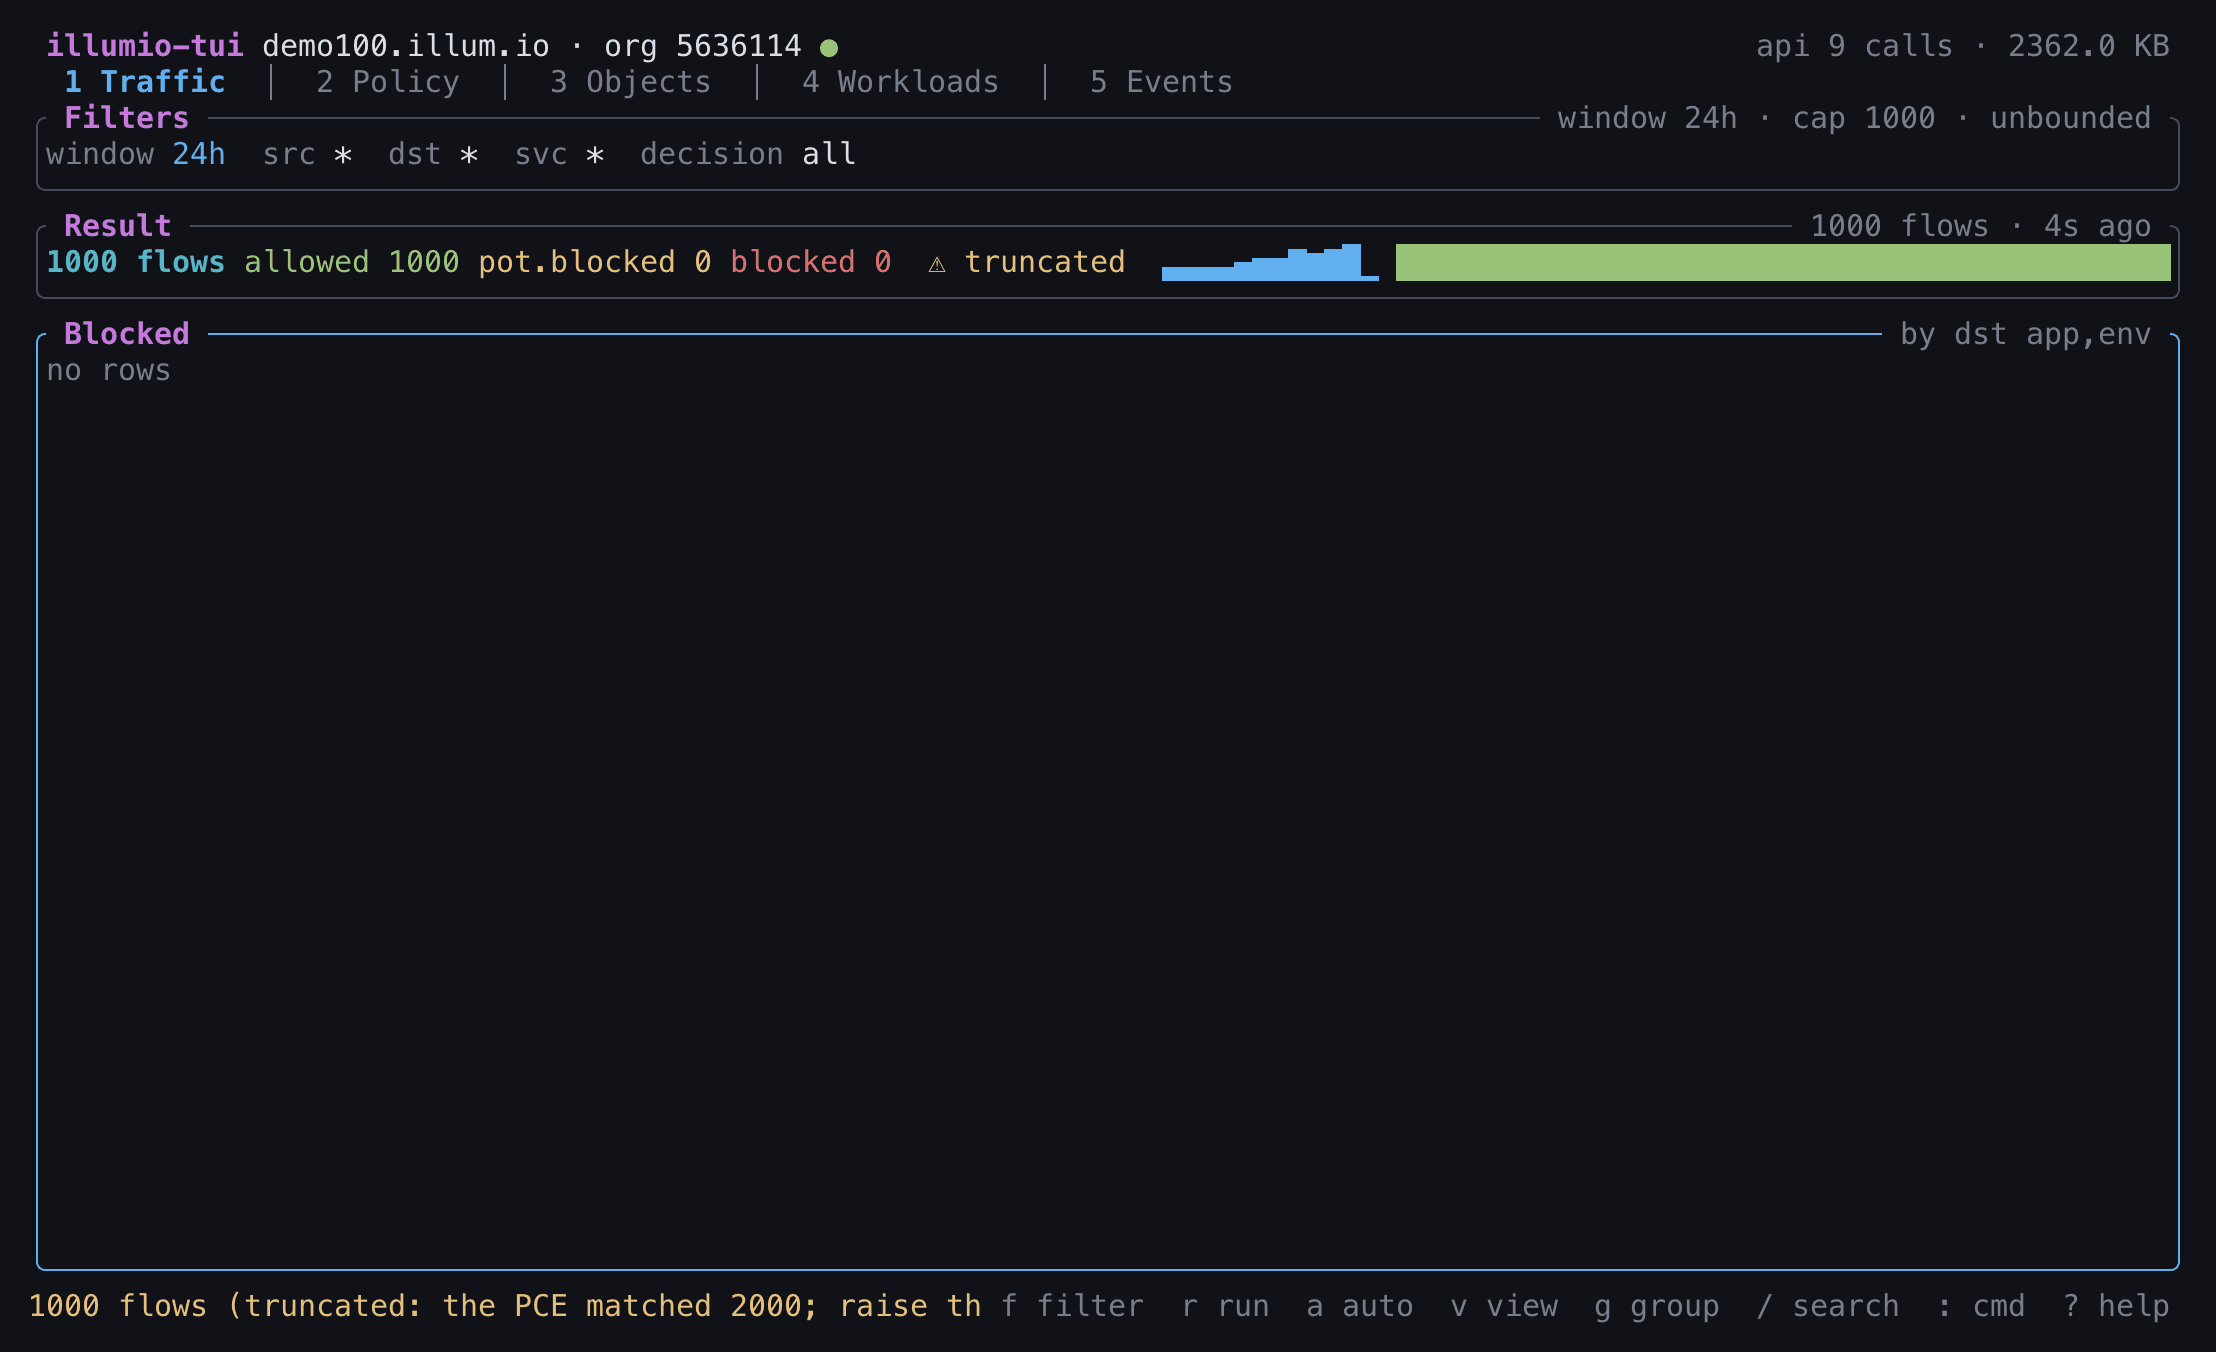
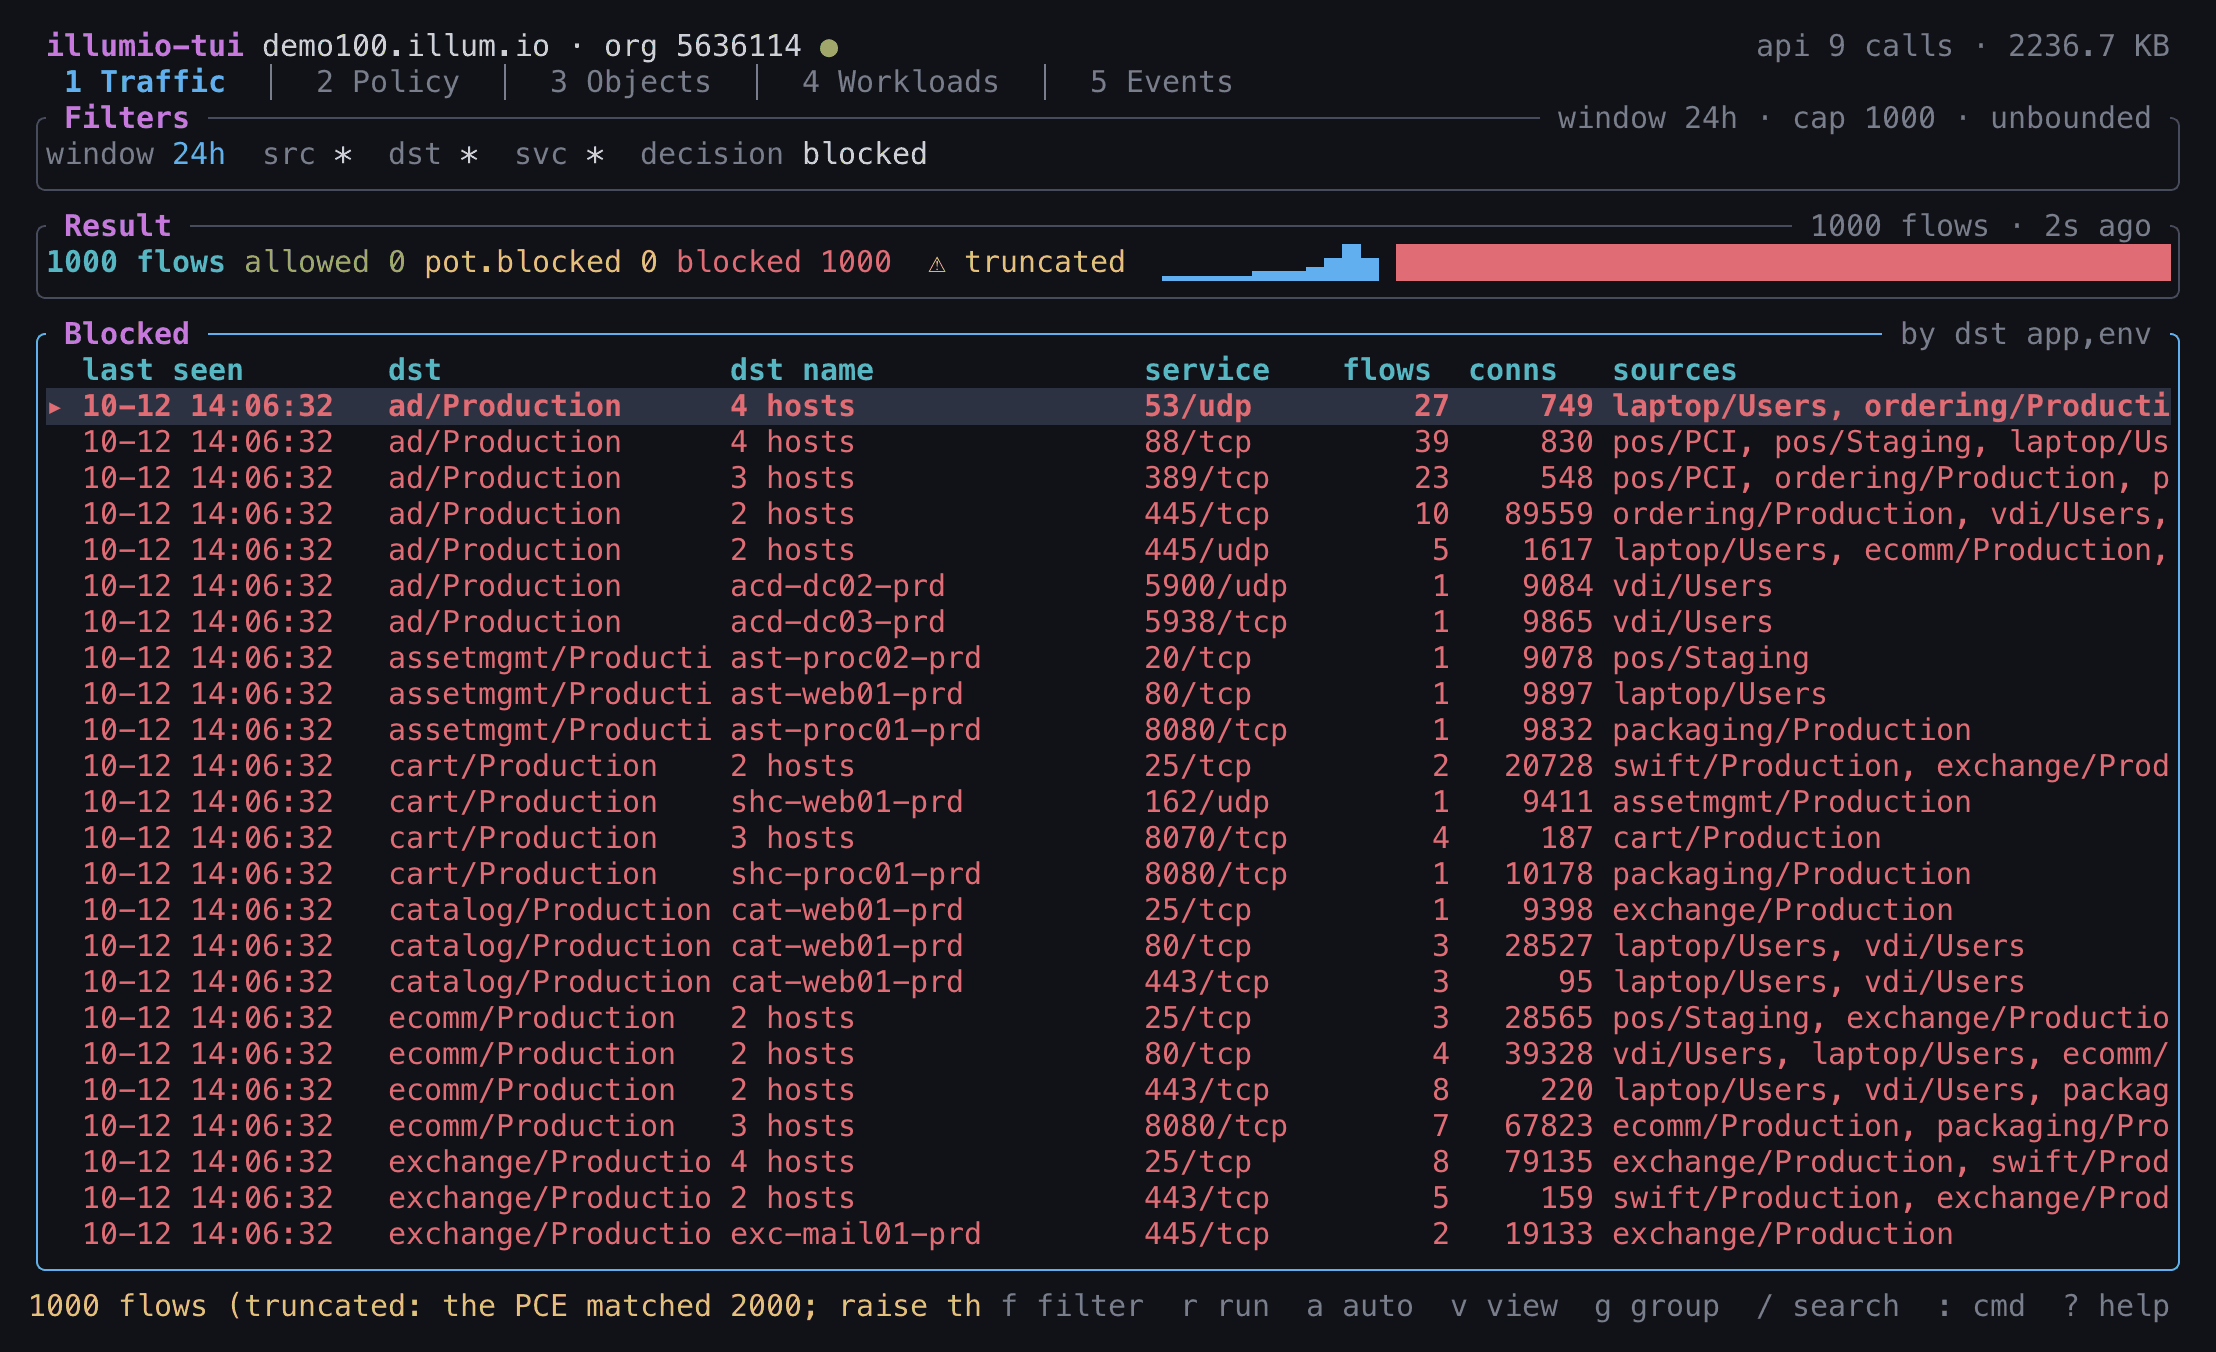
docs: populated Blocked screenshot from a blocked-only query

diff --git a/docs/index.html b/docs/index.html
@@ -126,8 +126,8 @@ illumio-tui 0.1.3</code></pre>
       <figcaption>Treemap: each source a box, destinations sized by connections.</figcaption>
     </figure>
     <figure class="shot">
-      <img src="assets/traffic-blocked.png" alt="The Traffic screen, Blocked view grouped by destination app and environment, empty because the result holds no blocked or potentially blocked flows" width="2216" height="1352" loading="lazy">
-      <figcaption>Blocked: empty here, the demo PCE allowed every flow in this window.</figcaption>
+      <img src="assets/traffic-blocked.png" alt="The Traffic screen, Blocked view after a query filtered to blocked flows: 1000 blocked flows grouped by destination app and environment and service, with last seen time, destination host or host count, flow and connection counts and the source groups" width="2216" height="1352" loading="lazy">
+      <figcaption>Blocked, after <code>f</code> set the decision to <code>blocked</code>: blocked flows by destination group and service, with their sources.</figcaption>
     </figure>
     <figure class="shot">
       <img src="assets/objects-labels.png" alt="The Objects screen, Labels tab, searched for app: key, value, workload and rule counts, and href per label, 27 of 132 rows" width="2216" height="1352" loading="lazy">
